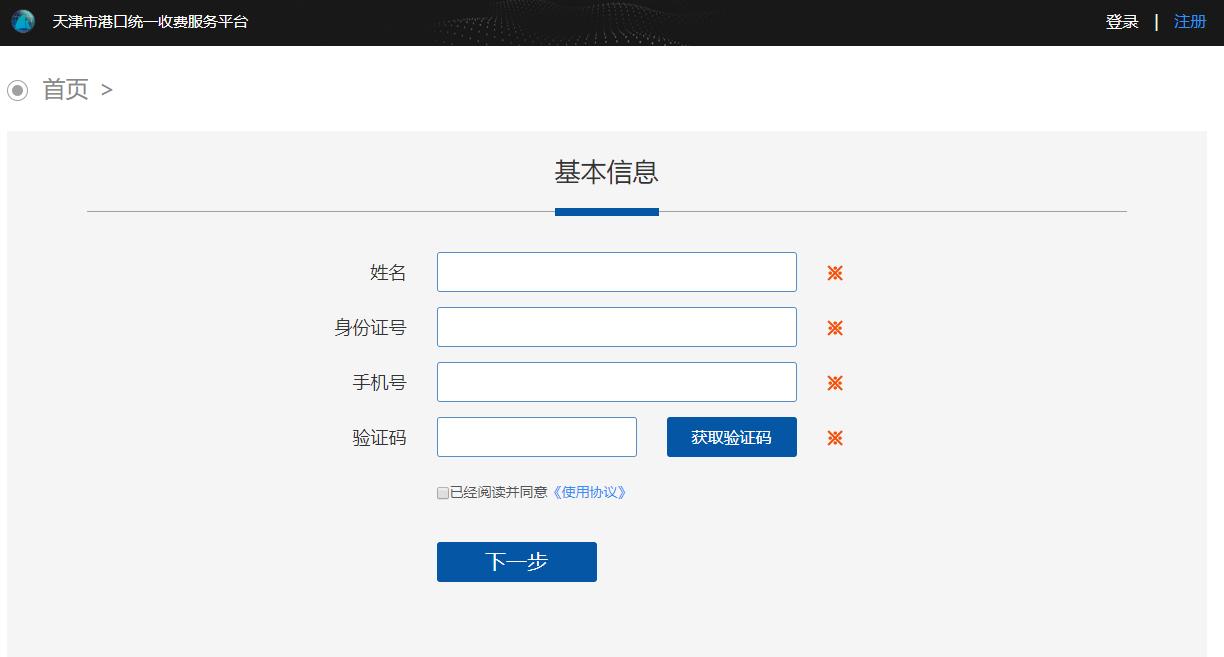
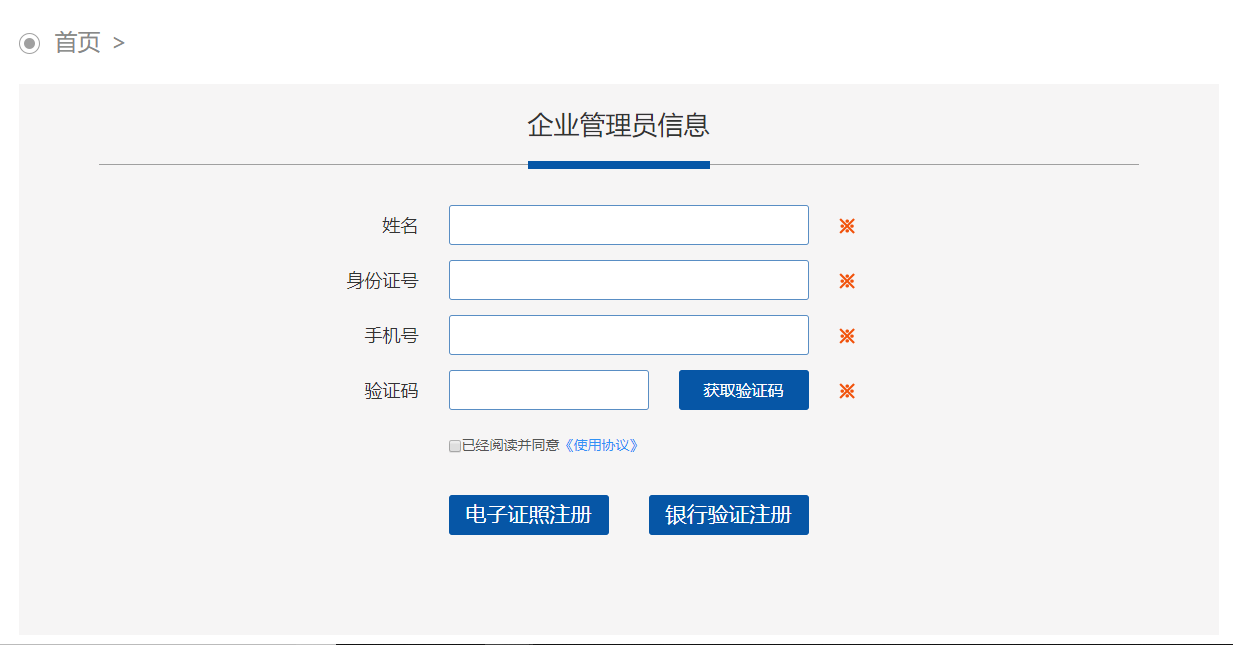
企业注册

diff --git a/src/main/resources/static/mnscList/qyzcgl/stepList.html b/src/main/resources/static/mnscList/qyzcgl/stepList.html
@@ -3,7 +3,7 @@
 
 <head>
   <meta charset="UTF-8">
-  <title>实操-企业注册</title>
+  <title>实操-企业电子证照注册</title>
   <link rel="stylesheet" href="">
   <link rel="stylesheet" href="../resource/css/reset.css">
   <link rel="stylesheet" href="../resource/css/header-footer.css">
@@ -35,7 +35,7 @@
         </div>
       </div>
       <div class="nav_bar">
-        <span>企业信息注册</span>
+        <span>企业电子证照注册</span>
         <div class="border"></div>
       </div>
     </div>
@@ -93,10 +93,10 @@
             steps: [
               {
                 X: 760,
-                Y: 380,
+                Y: 340,
                 distance: 10,
                 direction: 'right',
-                content: '<div class="intro-indent">通过首页右上角的注册链接，进入注册页面，基本信息中<span class="special">“*”</span>必须填写，<br>注：1.注身份证号码和手机必须正确填写；<br>2.手机用户接受验证信息。<br>正确填写后，点<span class="special">“下一步”</span>进行验证。</div>',
+                content: '<div class="intro-indent">通过首页右上角的注册链接，进入注册页面，基本信息中<span class="special">“*”</span>必须填写，<br>注：1.注身份证号码和手机必须正确填写；<br>2.手机用户接受验证信息。<br>正确填写后，点<span class="special">“电子证照注册”</span>进行注册。</div>',
                 padding: 10,
                 backgroundColor: 'rgba(0,0,0,0.6)',
                 color: '#fff',
@@ -111,8 +111,8 @@
                 }
               },
               {
-                X: 500,
-                Y: 450,
+                X: 505,
+                Y: 405,
                 distance: 10,
                 direction: 'bottom',
                 noTriangle: true,
